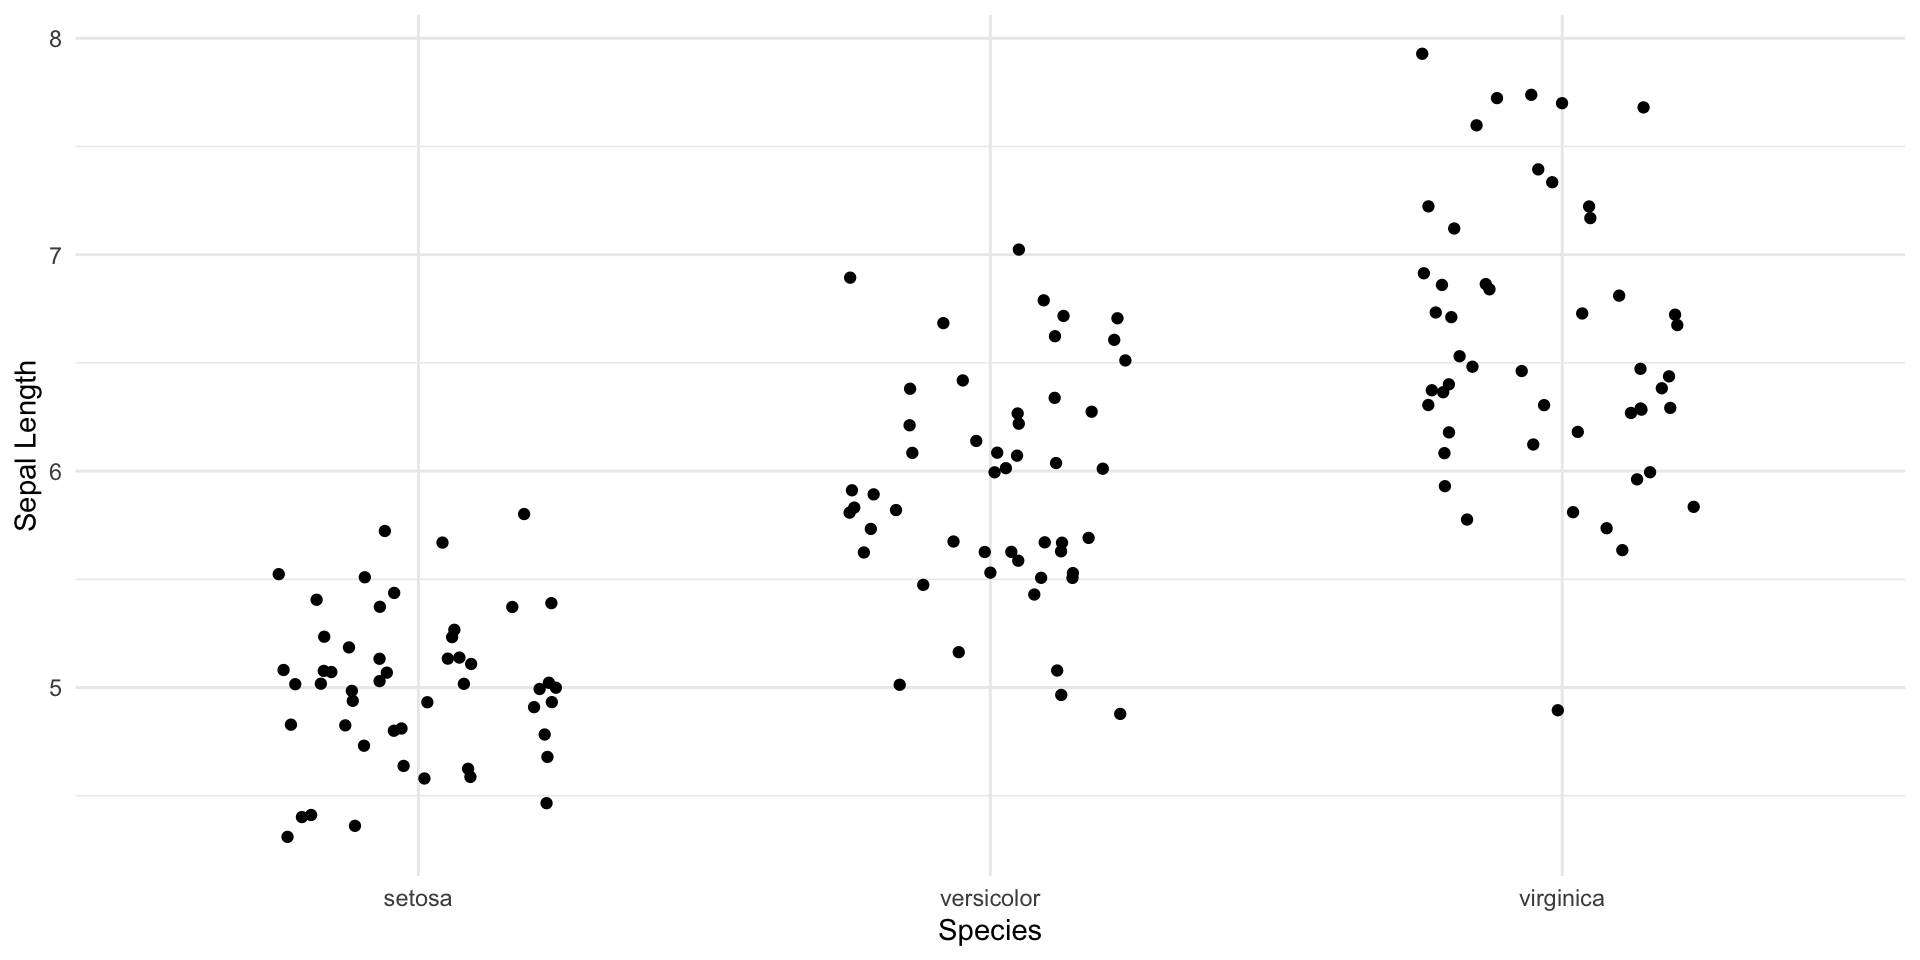
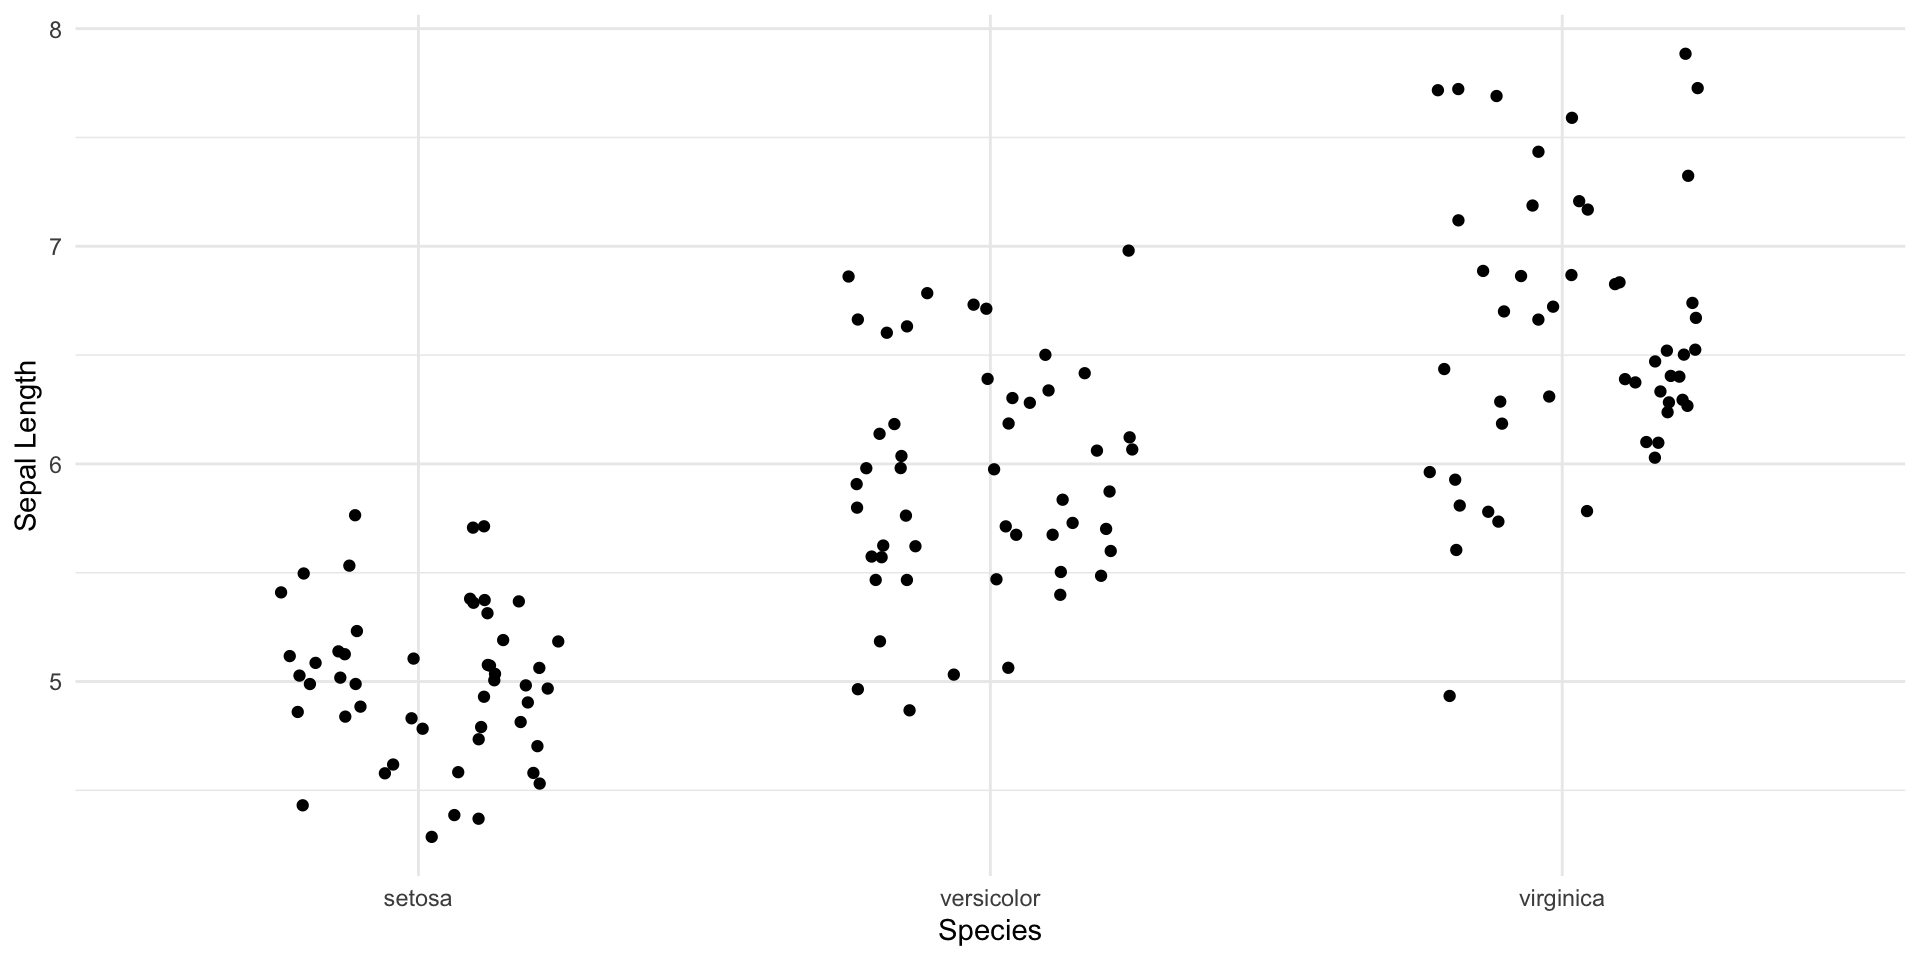
built for latest content

diff --git a/docs/slides.html b/docs/slides.html
@@ -307,15 +307,15 @@ Rodney Dyer, PhD
 <div class="columns">
 <div class="column" style="width:50%;">
 <div class="cell">
-<div class="code-copy-outer-scaffold"><div class="sourceCode cell-code" id="cb1"><pre class="sourceCode numberSource r number-lines code-with-copy"><code class="sourceCode r"><span id="cb1-1"><a href=""></a>iris <span class="sc">%&gt;%</span></span>
-<span id="cb1-2"><a href=""></a>  <span class="fu">filter</span>( Species <span class="sc">==</span> <span class="st">"setosa"</span> ) <span class="sc">%&gt;%</span></span>
-<span id="cb1-3"><a href=""></a>  <span class="fu">select</span>( Sepal.Length ) <span class="sc">%&gt;%</span></span>
+<div class="code-copy-outer-scaffold"><div class="sourceCode cell-code" id="cb1"><pre class="sourceCode numberSource r number-lines code-with-copy"><code class="sourceCode r"><span id="cb1-1"><a href=""></a>iris <span class="sc">|&gt;</span></span>
+<span id="cb1-2"><a href=""></a>  <span class="fu">filter</span>( Species <span class="sc">==</span> <span class="st">"setosa"</span> ) <span class="sc">|&gt;</span></span>
+<span id="cb1-3"><a href=""></a>  <span class="fu">select</span>( Sepal.Length ) <span class="sc">|&gt;</span></span>
 <span id="cb1-4"><a href=""></a>  <span class="fu">t.test</span>( <span class="at">mu=</span><span class="fl">5.843</span> )</span></code></pre></div><button title="Copy to Clipboard" class="code-copy-button"><i class="bi"></i></button></div>
 <div class="cell-output cell-output-stdout">
 <pre><code>
     One Sample t-test
 
-data:  .
+data:  select(filter(iris, Species == "setosa"), Sepal.Length)
 t = -16.791, df = 49, p-value &lt; 2.2e-16
 alternative hypothesis: true mean is not equal to 5.843
 95 percent confidence interval:
@@ -343,15 +343,15 @@ mean of x
 <div class="columns">
 <div class="column" style="width:50%;">
 <div class="cell">
-<div class="code-copy-outer-scaffold"><div class="sourceCode cell-code" id="cb3"><pre class="sourceCode numberSource r number-lines code-with-copy"><code class="sourceCode r"><span id="cb3-1"><a href=""></a>iris <span class="sc">%&gt;%</span></span>
-<span id="cb3-2"><a href=""></a>  <span class="fu">filter</span>( Species <span class="sc">==</span> <span class="st">"versicolor"</span> ) <span class="sc">%&gt;%</span></span>
-<span id="cb3-3"><a href=""></a>  <span class="fu">select</span>( Sepal.Length ) <span class="sc">%&gt;%</span></span>
+<div class="code-copy-outer-scaffold"><div class="sourceCode cell-code" id="cb3"><pre class="sourceCode numberSource r number-lines code-with-copy"><code class="sourceCode r"><span id="cb3-1"><a href=""></a>iris <span class="sc">|&gt;</span></span>
+<span id="cb3-2"><a href=""></a>  <span class="fu">filter</span>( Species <span class="sc">==</span> <span class="st">"versicolor"</span> ) <span class="sc">|&gt;</span></span>
+<span id="cb3-3"><a href=""></a>  <span class="fu">select</span>( Sepal.Length ) <span class="sc">|&gt;</span></span>
 <span id="cb3-4"><a href=""></a>  <span class="fu">t.test</span>( <span class="at">mu=</span><span class="fl">5.843</span> )</span></code></pre></div><button title="Copy to Clipboard" class="code-copy-button"><i class="bi"></i></button></div>
 <div class="cell-output cell-output-stdout">
 <pre><code>
     One Sample t-test
 
-data:  .
+data:  select(filter(iris, Species == "versicolor"), Sepal.Length)
 t = 1.274, df = 49, p-value = 0.2087
 alternative hypothesis: true mean is not equal to 5.843
 95 percent confidence interval:
@@ -379,15 +379,15 @@ mean of x
 <div class="columns">
 <div class="column" style="width:50%;">
 <div class="cell">
-<div class="code-copy-outer-scaffold"><div class="sourceCode cell-code" id="cb5"><pre class="sourceCode numberSource r number-lines code-with-copy"><code class="sourceCode r"><span id="cb5-1"><a href=""></a>iris <span class="sc">%&gt;%</span></span>
-<span id="cb5-2"><a href=""></a>  <span class="fu">filter</span>( Species <span class="sc">==</span> <span class="st">"virginica"</span> ) <span class="sc">%&gt;%</span></span>
-<span id="cb5-3"><a href=""></a>  <span class="fu">select</span>( Sepal.Length ) <span class="sc">%&gt;%</span></span>
+<div class="code-copy-outer-scaffold"><div class="sourceCode cell-code" id="cb5"><pre class="sourceCode numberSource r number-lines code-with-copy"><code class="sourceCode r"><span id="cb5-1"><a href=""></a>iris <span class="sc">|&gt;</span></span>
+<span id="cb5-2"><a href=""></a>  <span class="fu">filter</span>( Species <span class="sc">==</span> <span class="st">"virginica"</span> ) <span class="sc">|&gt;</span></span>
+<span id="cb5-3"><a href=""></a>  <span class="fu">select</span>( Sepal.Length ) <span class="sc">|&gt;</span></span>
 <span id="cb5-4"><a href=""></a>  <span class="fu">t.test</span>( <span class="at">mu=</span><span class="fl">5.843</span> )</span></code></pre></div><button title="Copy to Clipboard" class="code-copy-button"><i class="bi"></i></button></div>
 <div class="cell-output cell-output-stdout">
 <pre><code>
     One Sample t-test
 
-data:  .
+data:  select(filter(iris, Species == "virginica"), Sepal.Length)
 t = 8.2845, df = 49, p-value = 7.04e-11
 alternative hypothesis: true mean is not equal to 5.843
 95 percent confidence interval:
@@ -412,9 +412,9 @@ mean of x
 <section id="confidence-intervals." class="slide level2">
 <h2>Confidence Intervals.</h2>
 <div class="cell">
-<div class="code-copy-outer-scaffold"><div class="sourceCode cell-code" id="cb7"><pre class="sourceCode numberSource r number-lines code-with-copy"><code class="sourceCode r"><span id="cb7-1"><a href=""></a>t <span class="ot">&lt;-</span> iris <span class="sc">%&gt;%</span></span>
-<span id="cb7-2"><a href=""></a>  <span class="fu">filter</span>( Species <span class="sc">==</span> <span class="st">"virginica"</span> ) <span class="sc">%&gt;%</span></span>
-<span id="cb7-3"><a href=""></a>  <span class="fu">select</span>( Sepal.Length ) <span class="sc">%&gt;%</span></span>
+<div class="code-copy-outer-scaffold"><div class="sourceCode cell-code" id="cb7"><pre class="sourceCode numberSource r number-lines code-with-copy"><code class="sourceCode r"><span id="cb7-1"><a href=""></a>t <span class="ot">&lt;-</span> iris <span class="sc">|&gt;</span></span>
+<span id="cb7-2"><a href=""></a>  <span class="fu">filter</span>( Species <span class="sc">==</span> <span class="st">"virginica"</span> ) <span class="sc">|&gt;</span></span>
+<span id="cb7-3"><a href=""></a>  <span class="fu">select</span>( Sepal.Length ) <span class="sc">|&gt;</span></span>
 <span id="cb7-4"><a href=""></a>  <span class="fu">t.test</span>( <span class="at">mu=</span><span class="dv">6</span> ) </span>
 <span id="cb7-5"><a href=""></a><span class="fu">names</span>(t)</span></code></pre></div><button title="Copy to Clipboard" class="code-copy-button"><i class="bi"></i></button></div>
 <div class="cell-output cell-output-stdout">
@@ -465,11 +465,11 @@ attr(,"conf.level")
 <section id="testing-equality-of-2-means" class="slide level2">
 <h2>Testing Equality of 2 Means</h2>
 <div class="cell">
-<div class="code-copy-outer-scaffold"><div class="sourceCode cell-code" id="cb11"><pre class="sourceCode numberSource r number-lines code-with-copy"><code class="sourceCode r"><span id="cb11-1"><a href=""></a>x <span class="ot">&lt;-</span> iris <span class="sc">%&gt;%</span> </span>
-<span id="cb11-2"><a href=""></a>  <span class="fu">filter</span>( Species <span class="sc">==</span> <span class="st">"versicolor"</span>) <span class="sc">%&gt;%</span> </span>
+<div class="code-copy-outer-scaffold"><div class="sourceCode cell-code" id="cb11"><pre class="sourceCode numberSource r number-lines code-with-copy"><code class="sourceCode r"><span id="cb11-1"><a href=""></a>x <span class="ot">&lt;-</span> iris <span class="sc">|&gt;</span> </span>
+<span id="cb11-2"><a href=""></a>  <span class="fu">filter</span>( Species <span class="sc">==</span> <span class="st">"versicolor"</span>) <span class="sc">|&gt;</span> </span>
 <span id="cb11-3"><a href=""></a>  <span class="fu">select</span>( Sepal.Length ) </span>
-<span id="cb11-4"><a href=""></a>y <span class="ot">&lt;-</span> iris <span class="sc">%&gt;%</span> </span>
-<span id="cb11-5"><a href=""></a>  <span class="fu">filter</span>( Species <span class="sc">==</span> <span class="st">"virginica"</span>) <span class="sc">%&gt;%</span> </span>
+<span id="cb11-4"><a href=""></a>y <span class="ot">&lt;-</span> iris <span class="sc">|&gt;</span> </span>
+<span id="cb11-5"><a href=""></a>  <span class="fu">filter</span>( Species <span class="sc">==</span> <span class="st">"virginica"</span>) <span class="sc">|&gt;</span> </span>
 <span id="cb11-6"><a href=""></a>  <span class="fu">select</span>( Sepal.Length ) </span>
 <span id="cb11-7"><a href=""></a><span class="fu">t.test</span>( x, y )</span></code></pre></div><button title="Copy to Clipboard" class="code-copy-button"><i class="bi"></i></button></div>
 <div class="cell-output cell-output-stdout">
@@ -773,9 +773,9 @@ virginica-versicolor 0.652 0.4082273 0.8957727     0</code></pre>
 <section id="quarter-mile-speed-engine-type-transmission" class="slide level2">
 <h2>Quarter Mile Speed ~ Engine Type &amp; Transmission</h2>
 <div class="cell">
-<div class="code-copy-outer-scaffold"><div class="sourceCode cell-code" id="cb23"><pre class="sourceCode numberSource r number-lines code-with-copy"><code class="sourceCode r"><span id="cb23-1"><a href=""></a>df <span class="sc">%&gt;%</span> </span>
+<div class="code-copy-outer-scaffold"><div class="sourceCode cell-code" id="cb23"><pre class="sourceCode numberSource r number-lines code-with-copy"><code class="sourceCode r"><span id="cb23-1"><a href=""></a>df <span class="sc">|&gt;</span> </span>
 <span id="cb23-2"><a href=""></a>  <span class="fu">mutate</span>( <span class="at">Engine =</span> <span class="fu">factor</span>( <span class="fu">ifelse</span>( vs <span class="sc">==</span> <span class="dv">0</span>, <span class="st">"V-Shaped"</span>, <span class="st">"Straight"</span>) ),</span>
-<span id="cb23-3"><a href=""></a>          <span class="at">Transmission =</span> <span class="fu">factor</span>( <span class="fu">ifelse</span>( am <span class="sc">==</span> <span class="dv">0</span>, <span class="st">"Automatic"</span>,<span class="st">"Manual"</span>)) ) <span class="sc">%&gt;%</span></span>
+<span id="cb23-3"><a href=""></a>          <span class="at">Transmission =</span> <span class="fu">factor</span>( <span class="fu">ifelse</span>( am <span class="sc">==</span> <span class="dv">0</span>, <span class="st">"Automatic"</span>,<span class="st">"Manual"</span>)) ) <span class="sc">|&gt;</span></span>
 <span id="cb23-4"><a href=""></a>  <span class="fu">select</span>( <span class="at">Time =</span> qsec, Engine, Transmission) <span class="ot">-&gt;</span> df </span>
 <span id="cb23-5"><a href=""></a><span class="fu">summary</span>( df )</span></code></pre></div><button title="Copy to Clipboard" class="code-copy-button"><i class="bi"></i></button></div>
 <div class="cell-output cell-output-stdout">
